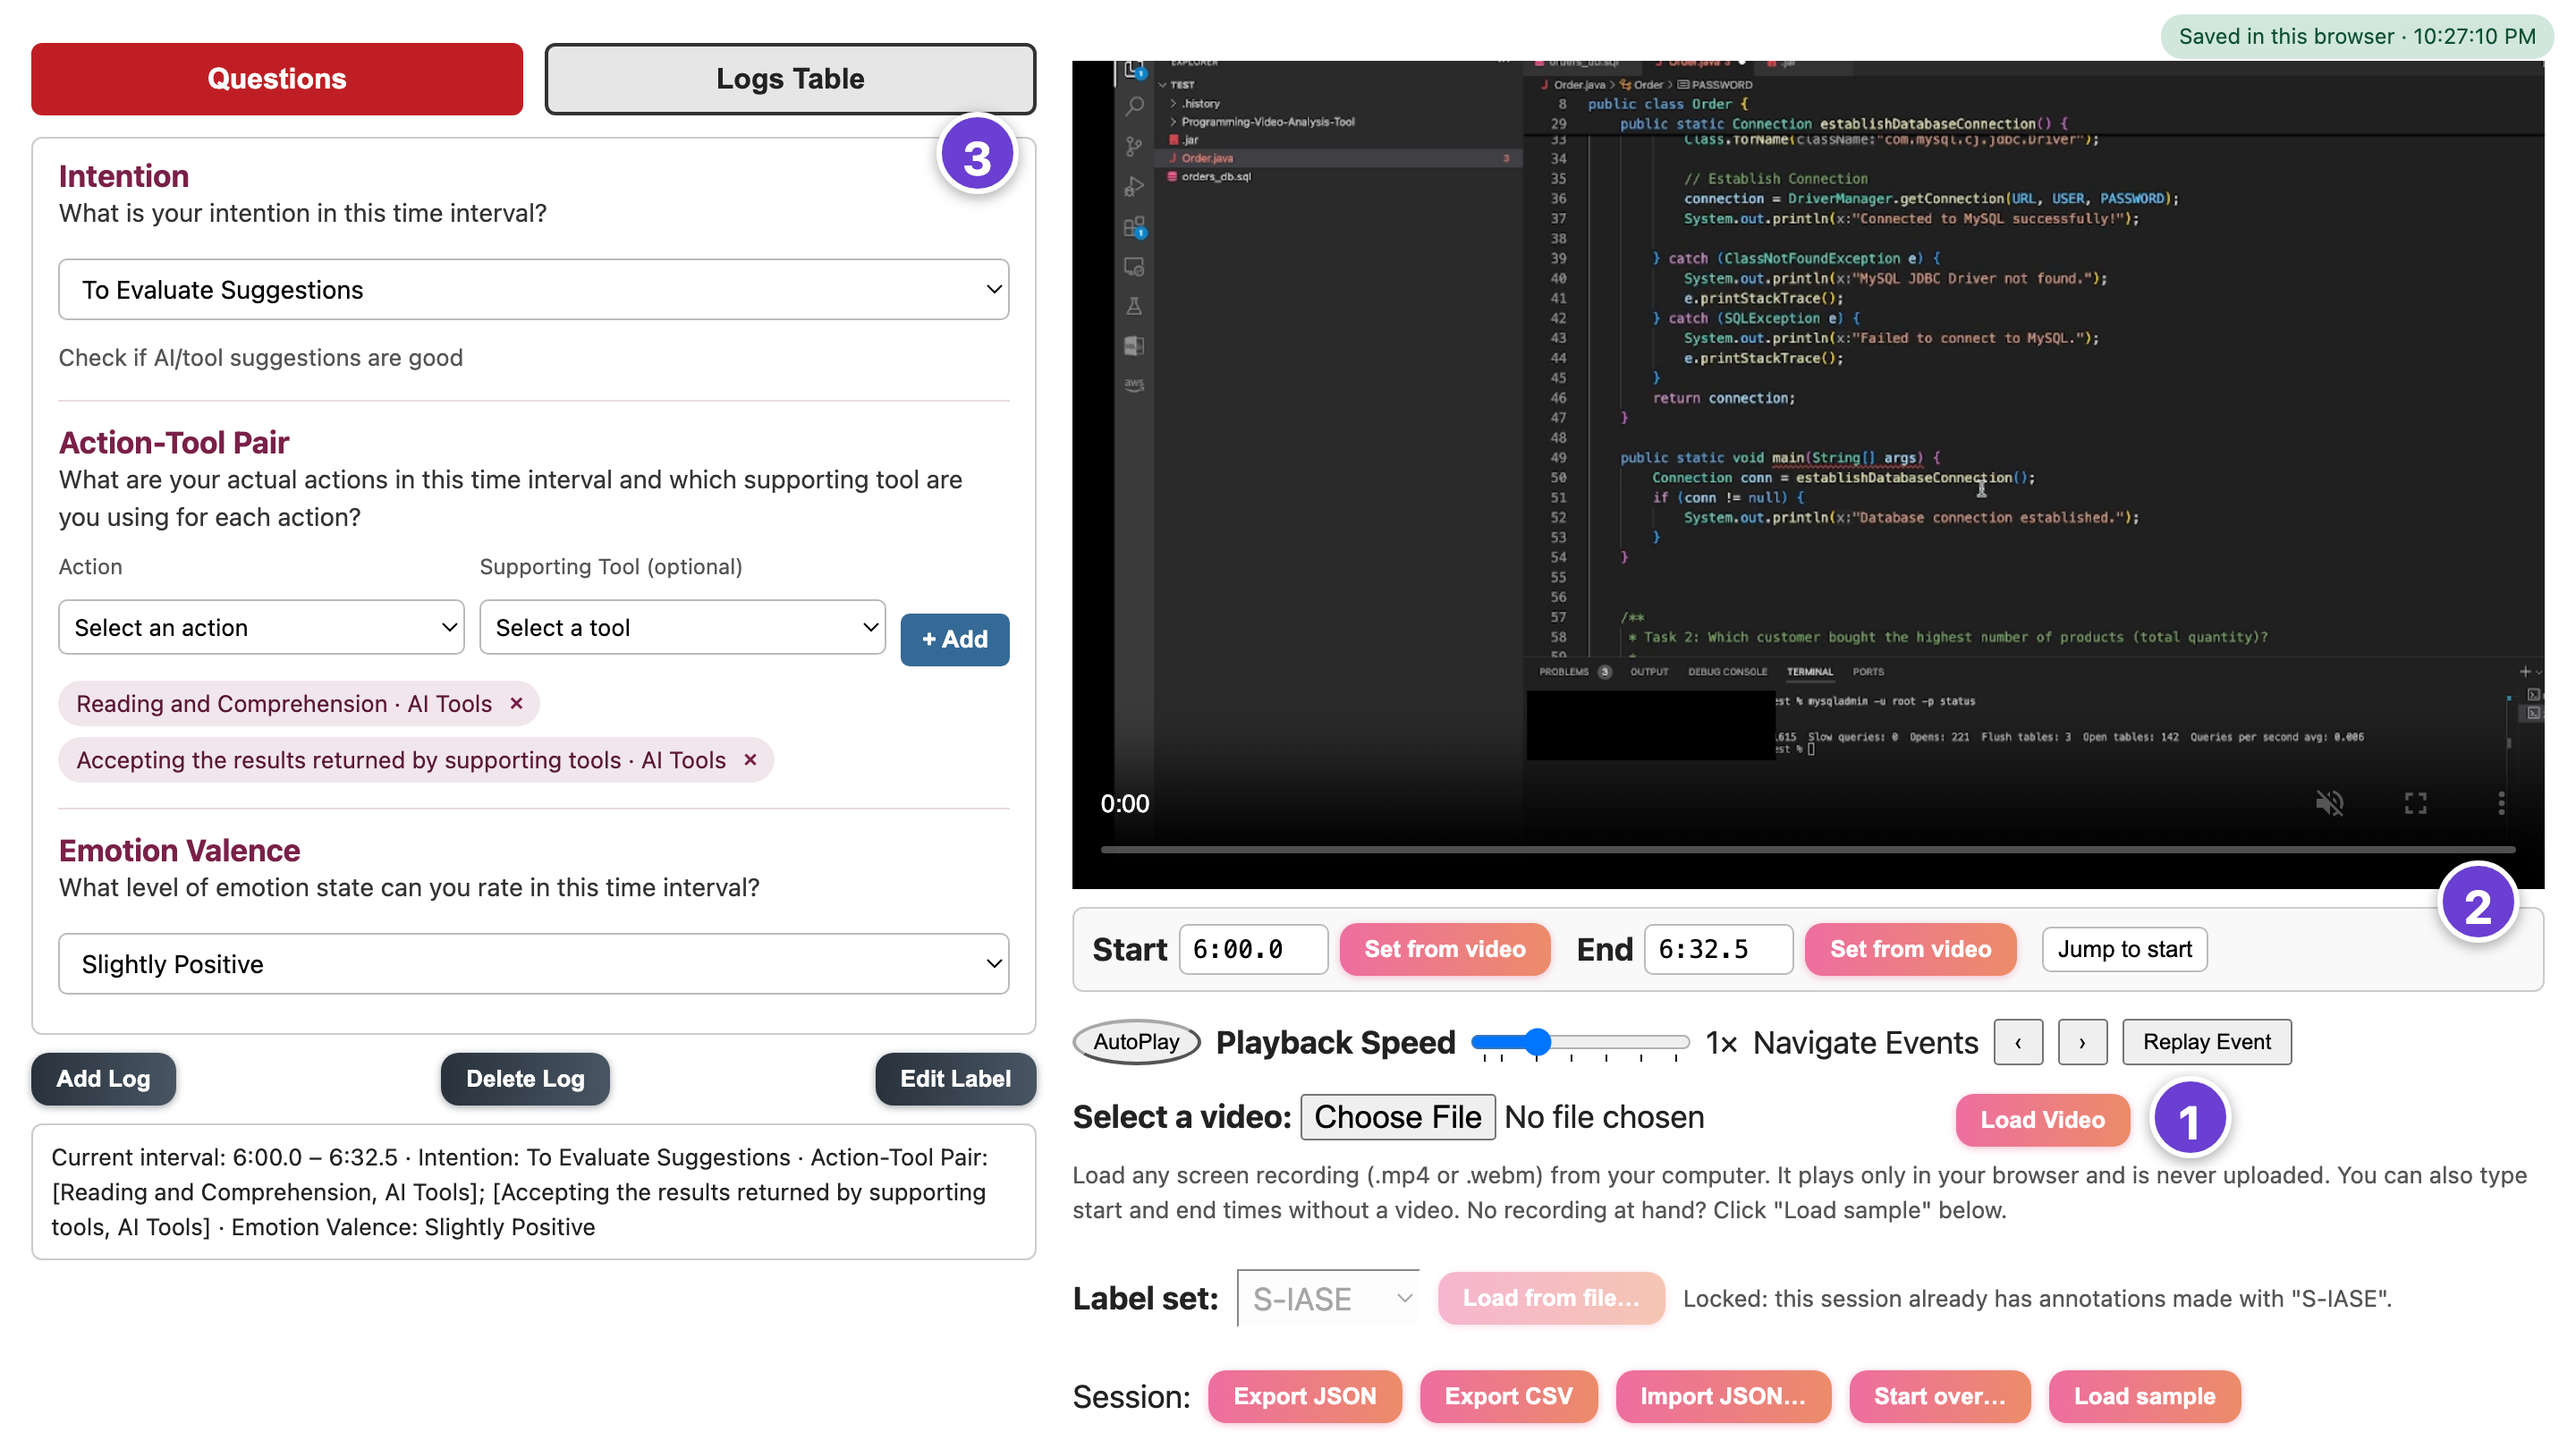
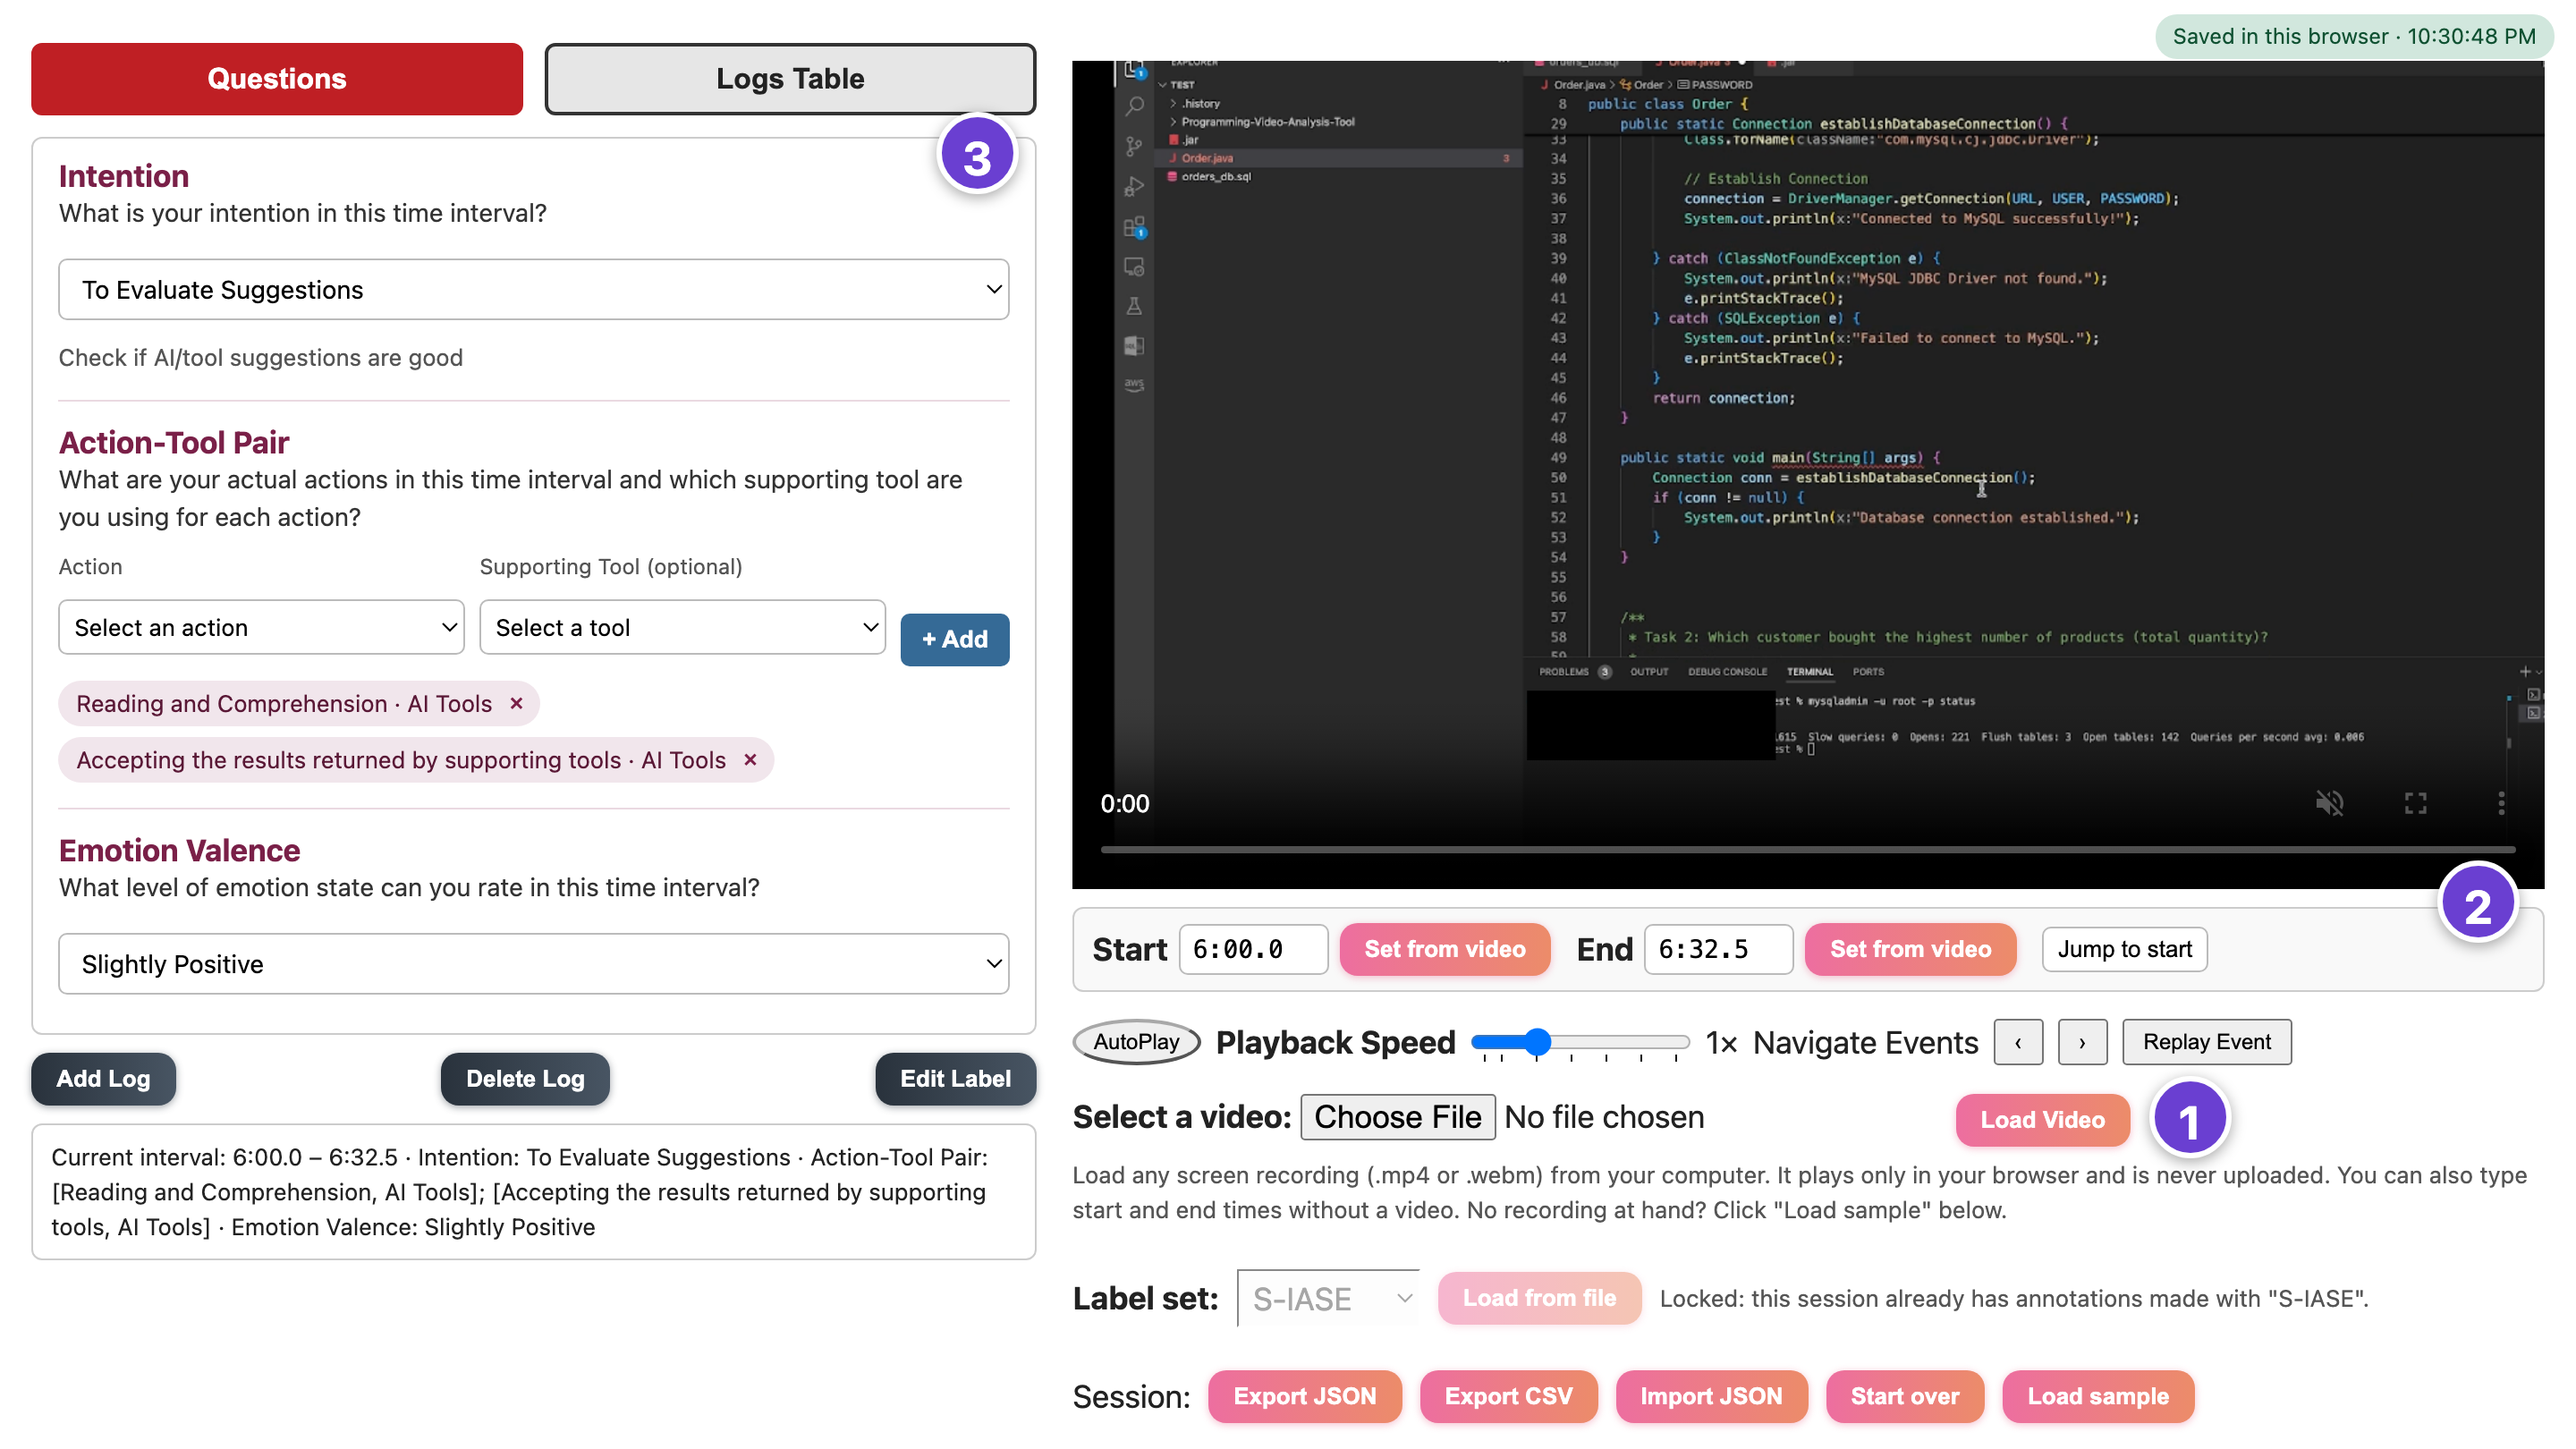
Drop the ellipses from button and menu labels
"Load from file", "Import JSON", "Start over" and "Other (type your
own)" read cleaner without the trailing "..."; README, project page
and the two full-page screenshots match.

Changed region(s): [[0.625, 0.8642, 0.9062, 0.9877], [0.8438, 0.0, 0.9688, 0.0309]]

diff --git a/docs/app/index.html b/docs/app/index.html
@@ -201,7 +201,7 @@
               <div class="labelset-bar">
                 <label for="labelset-select">Label set:</label>
                 <select id="labelset-select"></select>
-                <button id="labelset-load" class="btn-hover color-10" title="Load a label set from a JSON file">Load from file…</button>
+                <button id="labelset-load" class="btn-hover color-10" title="Load a label set from a JSON file">Load from file</button>
                 <input type="file" id="labelset-file" accept=".json,application/json" hidden>
                 <span id="labelset-lock" class="labelset-lock hidden"></span>
               </div>
@@ -211,9 +211,9 @@
                 <span>Session:</span>
                 <button id="export-json" class="btn-hover color-10" title="Download the annotations as JSON (can be imported again)">Export JSON</button>
                 <button id="export-csv" class="btn-hover color-10" title="Download the annotations as a CSV table (one row per interval)">Export CSV</button>
-                <button id="import-json" class="btn-hover color-10" title="Continue from an exported or older DevSelfTrace JSON file">Import JSON…</button>
+                <button id="import-json" class="btn-hover color-10" title="Continue from an exported or older DevSelfTrace JSON file">Import JSON</button>
                 <input type="file" id="import-file" accept=".json,application/json" hidden>
-                <button id="start-over" class="btn-hover color-10 tip" data-tip="Clear all annotations and begin again with an empty session, e.g. for the next participant or to switch label sets. You are asked first and can export a copy; on the server the previous version also stays in the .bak backups.">Start over…</button>
+                <button id="start-over" class="btn-hover color-10 tip" data-tip="Clear all annotations and begin again with an empty session, e.g. for the next participant or to switch label sets. You are asked first and can export a copy; on the server the previous version also stays in the .bak backups.">Start over</button>
                 <button id="load-sample" class="btn-hover color-10" title="Load a made-up example session to see how annotations look (not data from any participant)">Load sample</button>
               </div>
 
@@ -229,7 +229,7 @@
   <script src="static/sample.js?v=7eb0ae89"></script>
   <script src="static/core.js?v=5f341f81"></script>
   <script src="static/storage.js?v=8e66accf"></script>
-  <script src="static/app.js?v=d9178317"></script>
+  <script src="static/app.js?v=3965921c"></script>
 
   <script>
     // JavaScript for toggling views

diff --git a/app_study/index.html b/app_study/index.html
@@ -201,7 +201,7 @@
               <div class="labelset-bar">
                 <label for="labelset-select">Label set:</label>
                 <select id="labelset-select"></select>
-                <button id="labelset-load" class="btn-hover color-10" title="Load a label set from a JSON file">Load from file…</button>
+                <button id="labelset-load" class="btn-hover color-10" title="Load a label set from a JSON file">Load from file</button>
                 <input type="file" id="labelset-file" accept=".json,application/json" hidden>
                 <span id="labelset-lock" class="labelset-lock hidden"></span>
               </div>
@@ -211,9 +211,9 @@
                 <span>Session:</span>
                 <button id="export-json" class="btn-hover color-10" title="Download the annotations as JSON (can be imported again)">Export JSON</button>
                 <button id="export-csv" class="btn-hover color-10" title="Download the annotations as a CSV table (one row per interval)">Export CSV</button>
-                <button id="import-json" class="btn-hover color-10" title="Continue from an exported or older DevSelfTrace JSON file">Import JSON…</button>
+                <button id="import-json" class="btn-hover color-10" title="Continue from an exported or older DevSelfTrace JSON file">Import JSON</button>
                 <input type="file" id="import-file" accept=".json,application/json" hidden>
-                <button id="start-over" class="btn-hover color-10 tip" data-tip="Clear all annotations and begin again with an empty session, e.g. for the next participant or to switch label sets. You are asked first and can export a copy; on the server the previous version also stays in the .bak backups.">Start over…</button>
+                <button id="start-over" class="btn-hover color-10 tip" data-tip="Clear all annotations and begin again with an empty session, e.g. for the next participant or to switch label sets. You are asked first and can export a copy; on the server the previous version also stays in the .bak backups.">Start over</button>
                 <button id="load-sample" class="btn-hover color-10" title="Load a made-up example session to see how annotations look (not data from any participant)">Load sample</button>
               </div>
 

diff --git a/docs/index.html b/docs/index.html
@@ -152,7 +152,7 @@
         <span class="step-title">Annotate with guided menus</span>
       </div>
       <div class="content" style="margin-top:0.6rem;">
-        <p>Each dimension offers predefined options and, through <em>Other…</em>, custom labels. Because <em>intention</em> is more abstract than the other dimensions, the chosen intention's short definition is shown under the menu (e.g., <em>To Evaluate Suggestions</em> → "Check if AI/tool suggestions are good"). Actions and their supporting tools are added as pairs, shown as chips that can be removed. "Add Log" stays disabled until the interval is complete, and the summary says what is still missing.</p>
+        <p>Each dimension offers predefined options and, through <em>Other</em>, custom labels. Because <em>intention</em> is more abstract than the other dimensions, the chosen intention's short definition is shown under the menu (e.g., <em>To Evaluate Suggestions</em> → "Check if AI/tool suggestions are good"). Actions and their supporting tools are added as pairs, shown as chips that can be removed. "Add Log" stays disabled until the interval is complete, and the summary says what is still missing.</p>
         <figure>
           <img style="display:block; max-width:520px; margin:0 auto;" src="static/images/questions-panel.png" alt="Questions for one interval: intention with its definition, action-tool pairs as chips, emotion valence">
           <p class="figure-caption">Figure 3. Annotating one interval: the chosen intention's definition below the menu, two action–tool pairs as chips, and the emotion valence.</p>

diff --git a/app_study/static/app.js b/app_study/static/app.js
@@ -448,7 +448,7 @@ labelsetFileInput.addEventListener("change", async () => {
 // ---- Questions ---------------------------------------------------------------
 // One block per dimension of the label set: its name, question and optional help text, then a dropdown
 // ("single") or a row of dropdowns that adds pairs shown as removable chips ("pairs").
-// Where custom labels are allowed, the dropdown ends with "Other…", which opens a text box in place.
+// Where custom labels are allowed, the dropdown ends with "Other", which opens a text box in place.
 
 const OTHER = "__other__";
 
@@ -459,7 +459,7 @@ function element(tag, className, text) {
     return node;
 }
 
-// A dropdown, the text box for "Other…", and a line showing the chosen option's hint.
+// A dropdown, the text box for "Other", and a line showing the chosen option's hint.
 // onChange receives the chosen option, the typed text, or "" while nothing is chosen.
 function choiceControl(placeholder, options, allowCustom, label, onChange) {
     const wrap = element("div", "choice");
@@ -473,7 +473,7 @@ function choiceControl(placeholder, options, allowCustom, label, onChange) {
         if (option.hint) item.title = option.hint;
         select.appendChild(item);
     });
-    if (allowCustom) select.appendChild(new Option("Other… (type your own)", OTHER));
+    if (allowCustom) select.appendChild(new Option("Other (type your own)", OTHER));
 
     const other = element("input", "other-input hidden");
     other.type = "text";

diff --git a/docs/app/static/app.js b/docs/app/static/app.js
@@ -448,7 +448,7 @@ labelsetFileInput.addEventListener("change", async () => {
 // ---- Questions ---------------------------------------------------------------
 // One block per dimension of the label set: its name, question and optional help text, then a dropdown
 // ("single") or a row of dropdowns that adds pairs shown as removable chips ("pairs").
-// Where custom labels are allowed, the dropdown ends with "Other…", which opens a text box in place.
+// Where custom labels are allowed, the dropdown ends with "Other", which opens a text box in place.
 
 const OTHER = "__other__";
 
@@ -459,7 +459,7 @@ function element(tag, className, text) {
     return node;
 }
 
-// A dropdown, the text box for "Other…", and a line showing the chosen option's hint.
+// A dropdown, the text box for "Other", and a line showing the chosen option's hint.
 // onChange receives the chosen option, the typed text, or "" while nothing is chosen.
 function choiceControl(placeholder, options, allowCustom, label, onChange) {
     const wrap = element("div", "choice");
@@ -473,7 +473,7 @@ function choiceControl(placeholder, options, allowCustom, label, onChange) {
         if (option.hint) item.title = option.hint;
         select.appendChild(item);
     });
-    if (allowCustom) select.appendChild(new Option("Other… (type your own)", OTHER));
+    if (allowCustom) select.appendChild(new Option("Other (type your own)", OTHER));
 
     const other = element("input", "other-input hidden");
     other.type = "text";

diff --git a/README.md b/README.md
@@ -83,7 +83,7 @@ Then open <http://localhost:8080/>; annotations are saved to `./data/session.jso
 - On the server, files are replaced in one step (never half-written), and the five previous versions are kept as `FILE.bak1` … `FILE.bak5`.
 - If a save fails (server stopped, browser storage full), it is retried and you can export a copy right away.
 
-**Session** buttons: *Export JSON* (can be imported again), *Export CSV* (one row per interval), *Import JSON* (continue from an exported file or an older DevSelfTrace file), *Start over…* (clears the annotations, offering an export first), *Load sample*.
+**Session** buttons: *Export JSON* (can be imported again), *Export CSV* (one row per interval), *Import JSON* (continue from an exported file or an older DevSelfTrace file), *Start over* (clears the annotations, offering an export first), *Load sample*.
 
 ## Label sets
 
@@ -95,7 +95,7 @@ A **label set** defines the questions: its dimensions, their options and hover e
 | [`cups.json`](labels/cups.json) | The 12 CodeRec User Programming States of Mozannar et al. (CHI'24), with their definitions; custom labels are off, as in CUPS. |
 | [`template.json`](labels/template.json) | A starting point for your own label set. |
 
-**Choosing a label set:** the *Label set* menu in the page, *Load from file…* for your own file, `?labels=cups` in the address (e.g. `.../app/?labels=cups`), or `server.py -l FILE`. The label set is saved with the annotations. Once a session has annotations its label set is locked, so a session never mixes label sets; use *Start over…* to switch.
+**Choosing a label set:** the *Label set* menu in the page, *Load from file* for your own file, `?labels=cups` in the address (e.g. `.../app/?labels=cups`), or `server.py -l FILE`. The label set is saved with the annotations. Once a session has annotations its label set is locked, so a session never mixes label sets; use *Start over* to switch.
 
 **Writing your own.** Copy `labels/template.json` and edit it. A minimal example:
 
